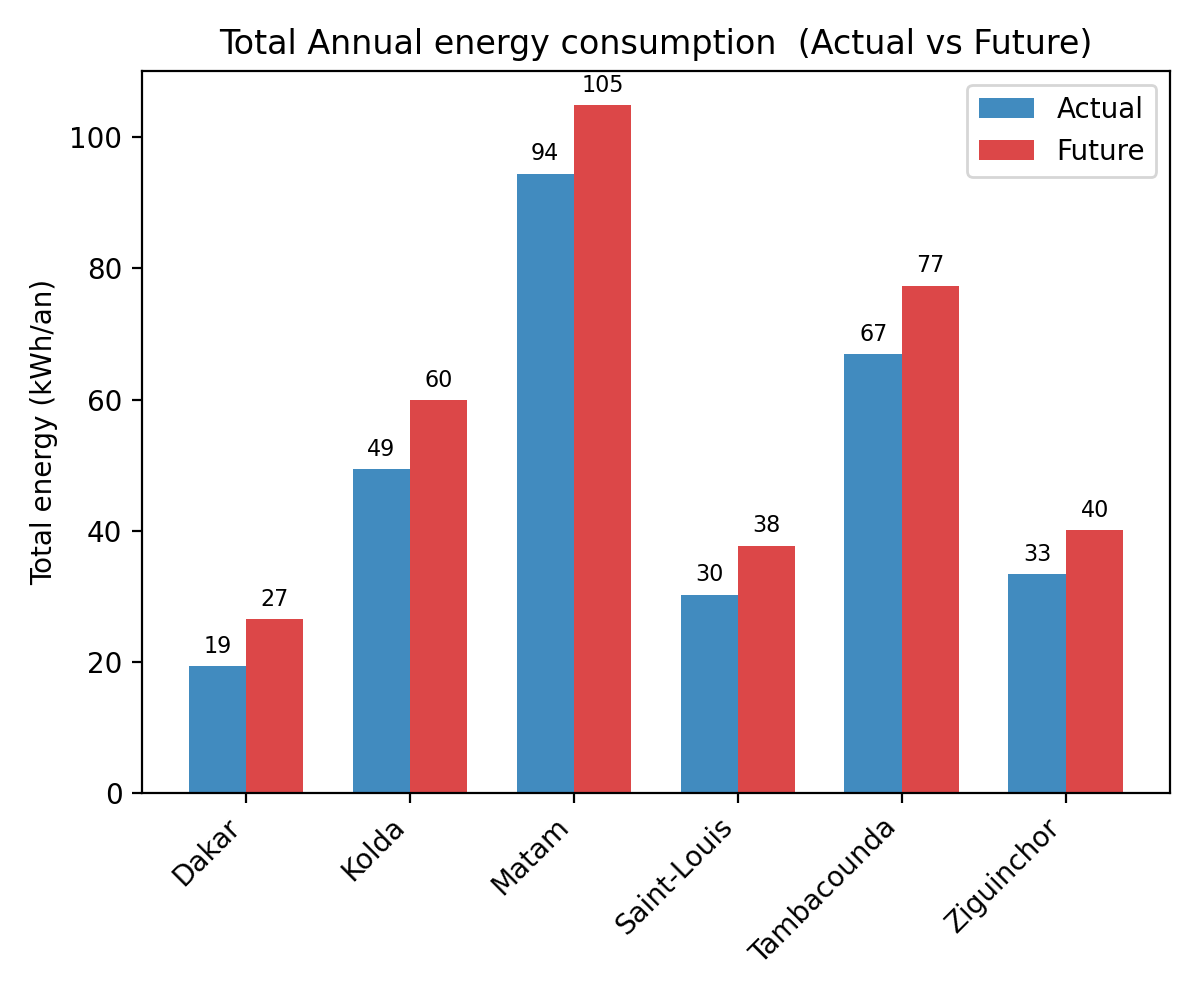
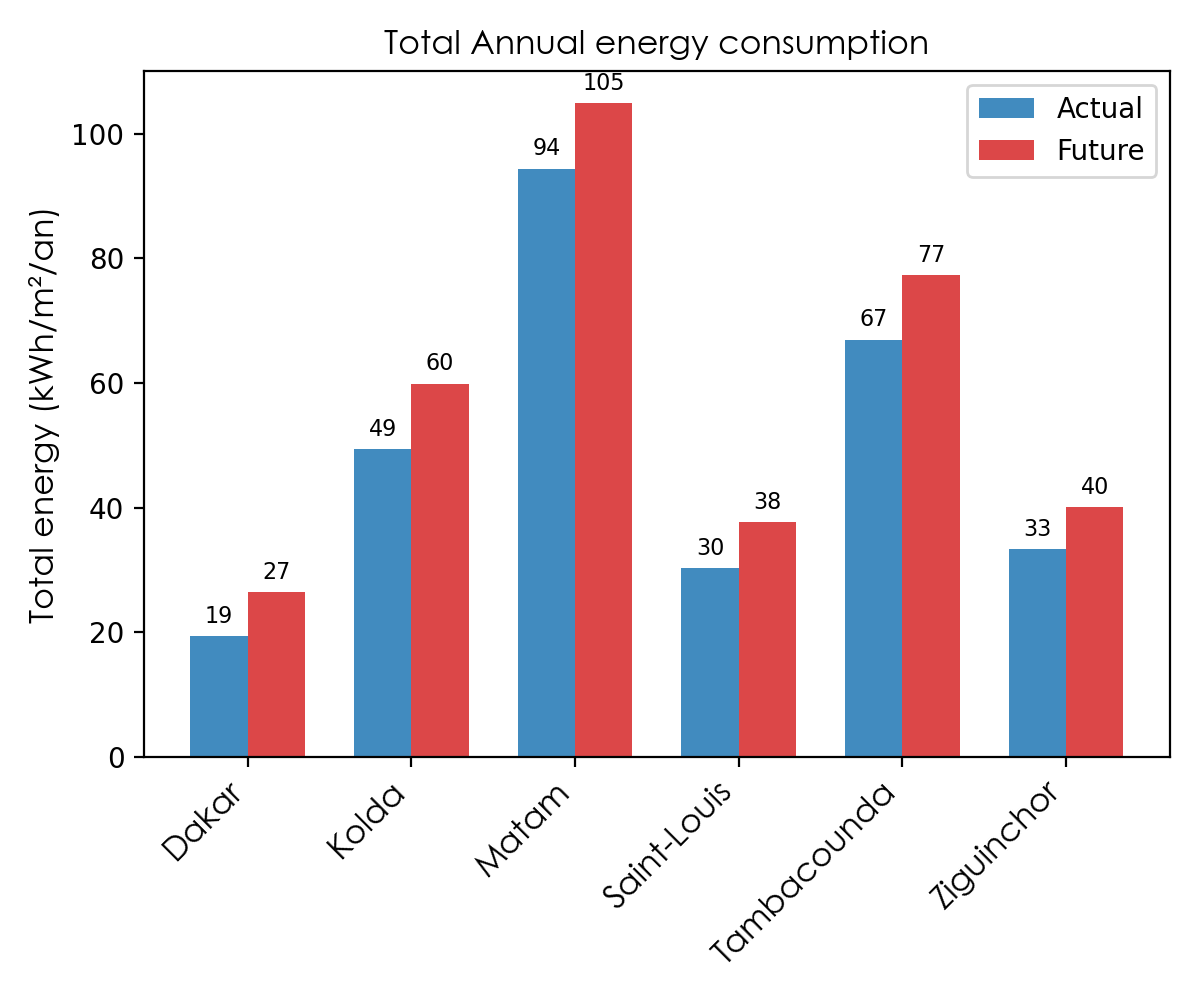
modified energy compare plot

diff --git a/simul/compare_energy.py b/simul/compare_energy.py
@@ -60,11 +60,11 @@ def plot_energy_histogram(labels, actual_kwh, future_kwh, out_path=None):
     bars_f = ax.bar(x + width/2, future_kwh, width, label='Future', color='#d62728', alpha=0.85)
 
     # Display axis and labels in thousands (e.g., 140 represents 140,000 kWh)
-    ax.set_ylabel('Total energy (kWh/an)')
+    ax.set_ylabel('Total energy (kWh/m²/an)', font = 'Century Gothic', fontsize=12)
     ax.yaxis.set_major_formatter(mticker.FuncFormatter(lambda x, p: f"{x/1000:,.0f}"))
-    ax.set_title('Total Annual energy consumption  (Actual vs Future)')
+    ax.set_title('Total Annual energy consumption', font = 'Century Gothic', fontsize=12)
     ax.set_xticks(x)
-    ax.set_xticklabels(labels, rotation=45, ha='right')
+    ax.set_xticklabels(labels, rotation=45, ha='right', font = 'Century Gothic', fontsize=12)
     ax.legend()
 
     # annotate bars with kWh values on top

diff --git a/simul/boxplot_overheating.py b/simul/boxplot_overheating.py
@@ -2,7 +2,7 @@
 
 Each sheet must contain `op_temp_actual` and `op_temp_future`. The script
 computes exceedance above a threshold (default 26°C) and draws side-by-side
-boxplots per sheet showing the 5th–95th percentile whiskers for Actual and
+boxplots per sheet showing the 5th - 95th percentile whiskers for Actual and
 Future periods.
 """
 import os
